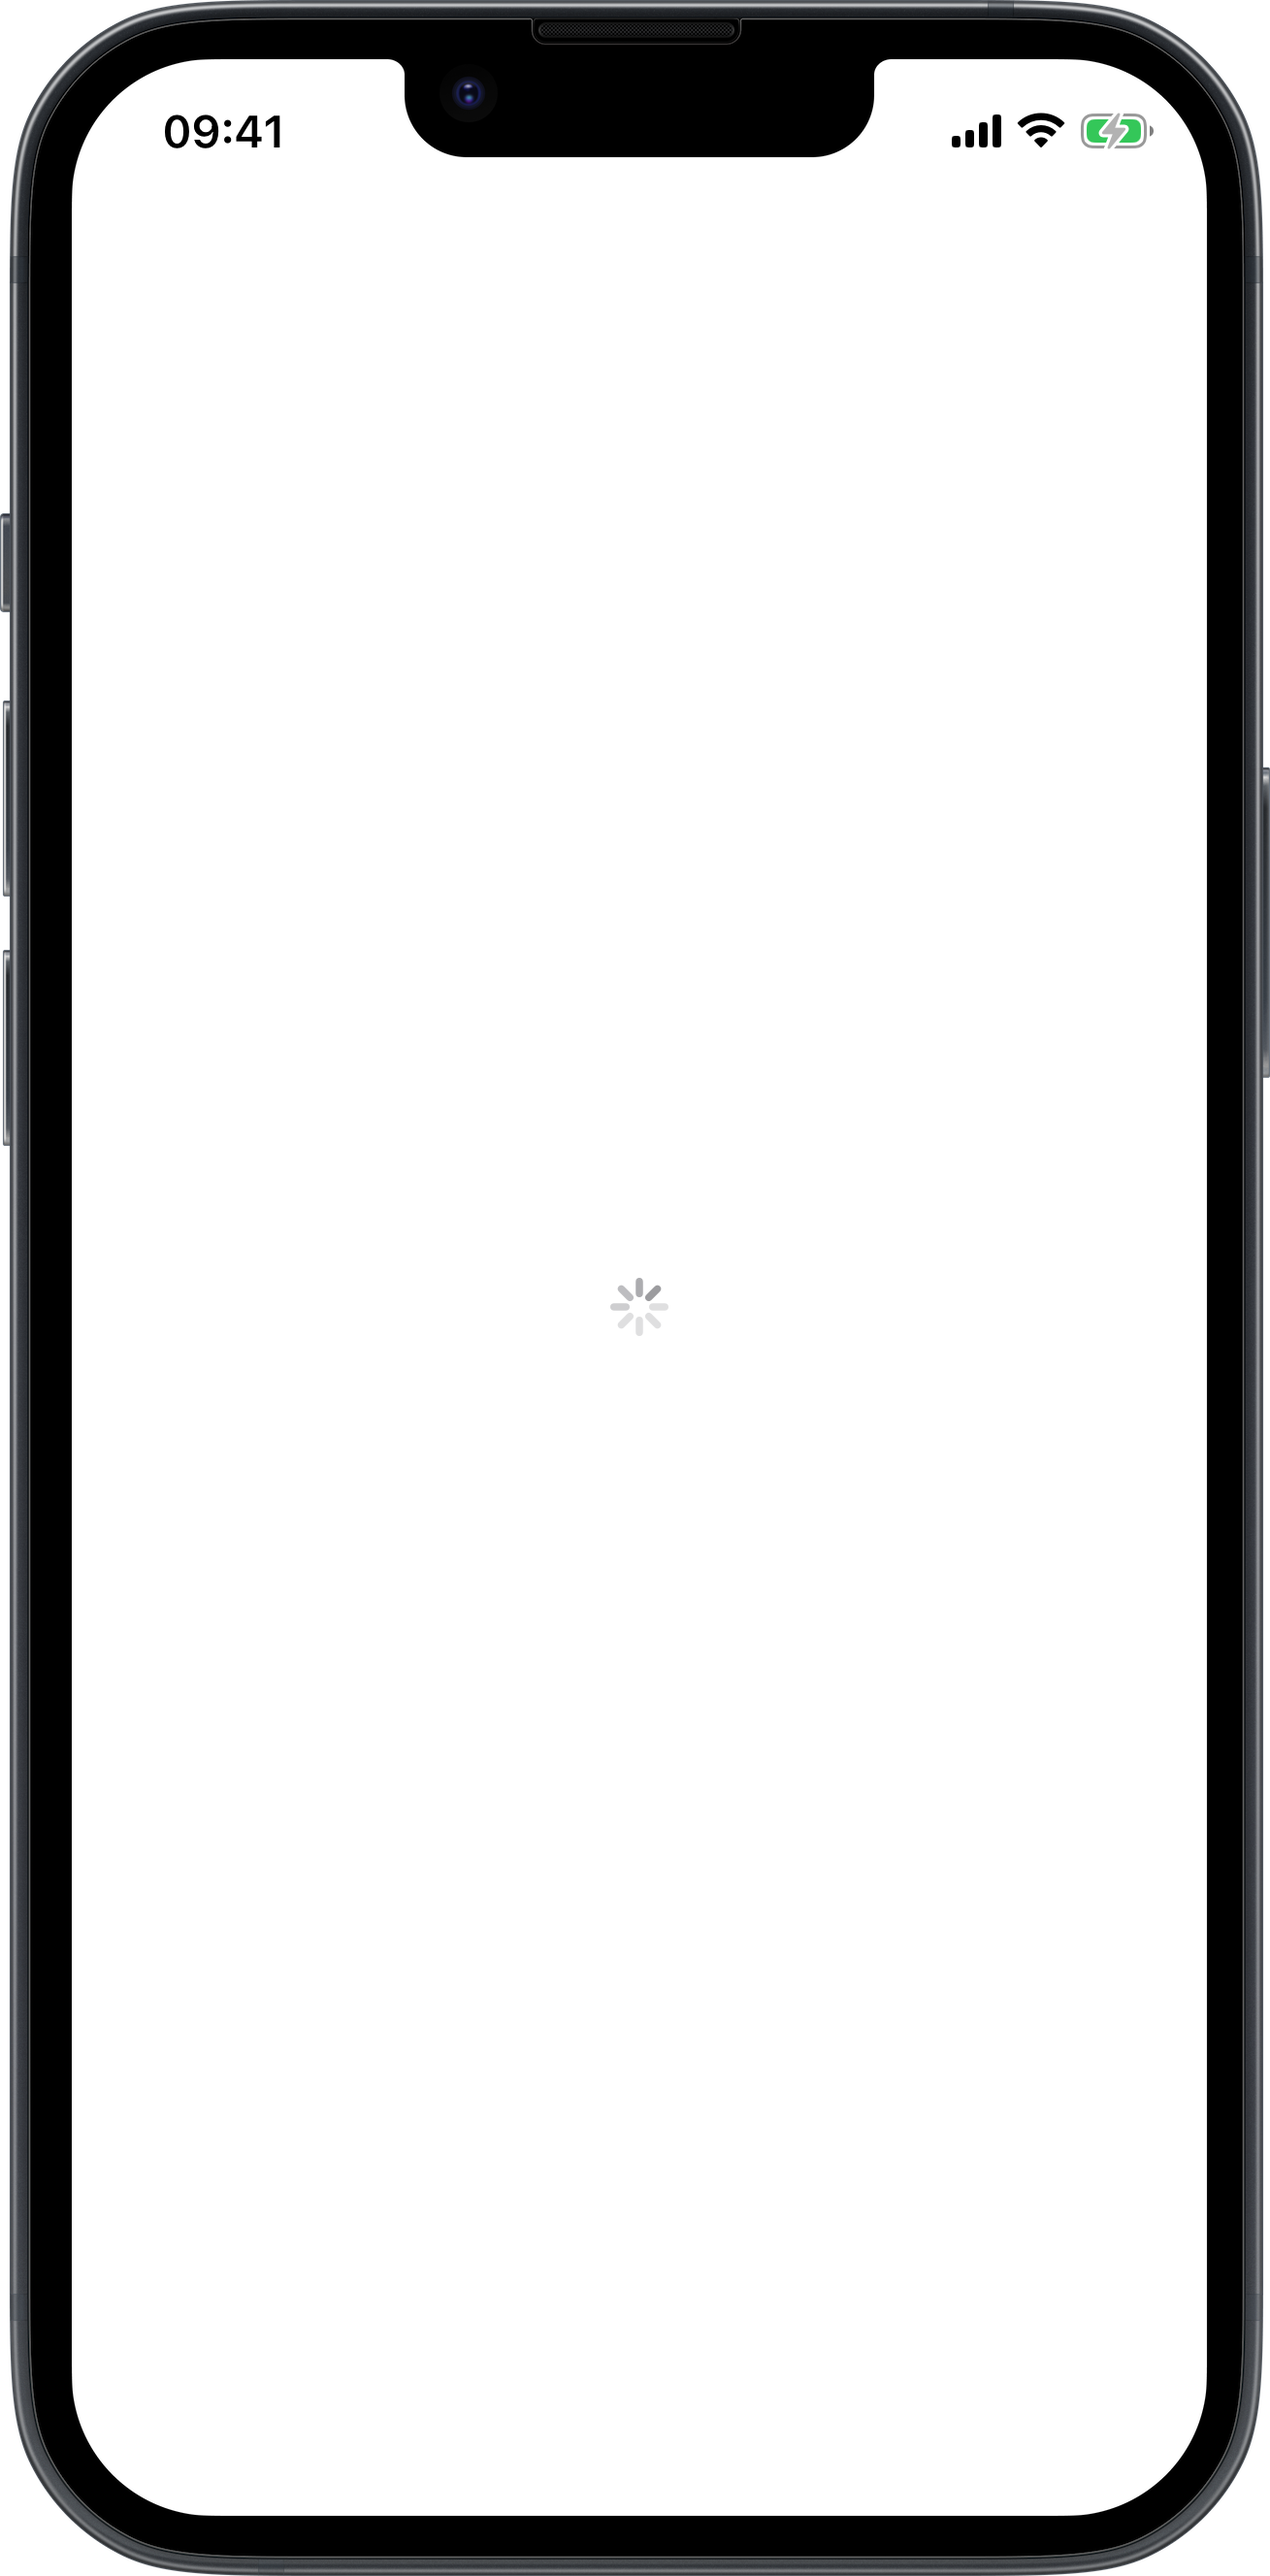
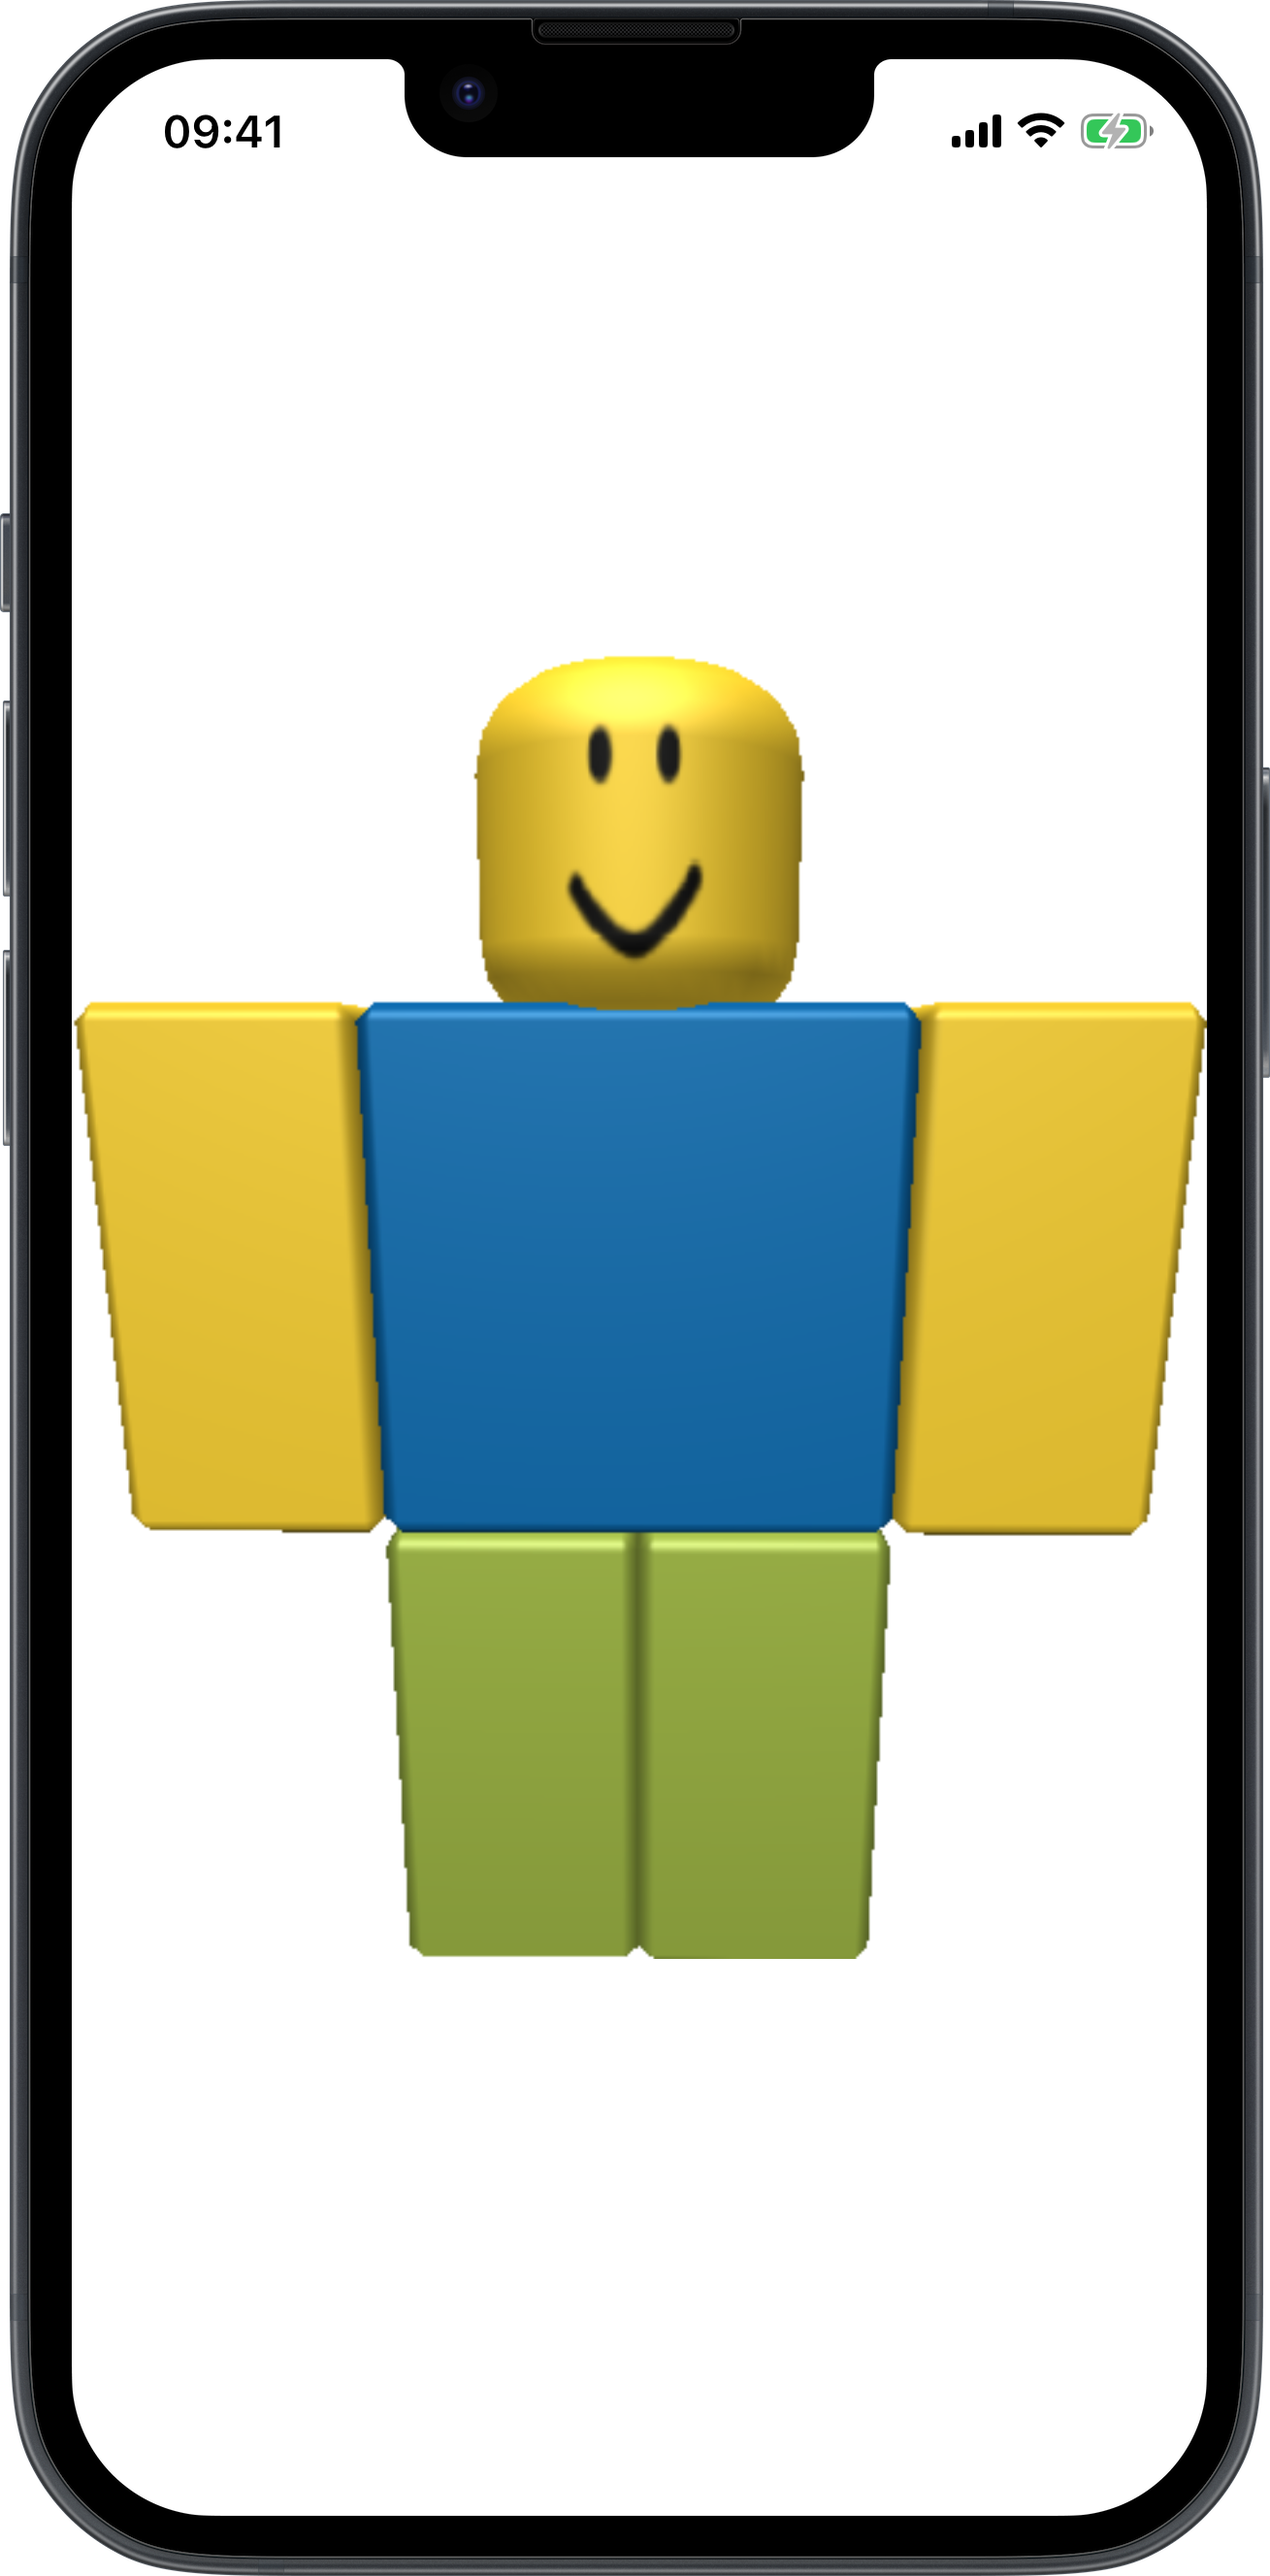
fixed asyncimage

Changed region(s): [[0.0611, 0.2471, 0.9473, 0.7721]]

diff --git a/Views/Other/asyncimage.md b/Views/Other/asyncimage.md
@@ -10,11 +10,46 @@ A view that asynchronously loads and displays an image.
 - `renderingMode`: The rendering mode of the image. Can be `original` or `template`.
 - The text content of the tag is the URL of the image.
 
-**Example**
+***Fit Image Example:***
+
+The example below shows how to load an image from a URL. The `resizable` attribute allows the image to be resized, and `scaledToFit` scales the image to fit its container while maintaining its aspect ratio.
 
 ```xml
 <body>
-    <asyncimage resizable="">https://picsum.photos/200</asyncimage>
+    <asyncimage resizable="" scaledToFit="">url:https://magic-ui.com/Demo/Resources/Images/noobie.png</asyncimage>
 </body>
 ```
 <img src="/Screenshots/Views/Other/asyncimage_1.png" width="250" alt="Screenshot">
+
+***Fill Image Example:***
+
+This example uses `scaledToFill`, which scales the image to fill its container, potentially cropping the image if its aspect ratio doesn't match.
+
+```xml
+<body>
+    <asyncimage resizable="" scaledToFill="">url:https://magic-ui.com/Demo/Resources/Images/noobie.png</asyncimage>
+</body>
+```
+<img src="/Screenshots/Views/Other/asyncimage_2.png" width="250" alt="Screenshot">
+
+***Template Image Example:***
+
+This example demonstrates the use of `renderingMode="template"`. This mode allows the image to be colored by the `foregroundColor`. The example also sets a fixed `height` for the image.
+
+```xml
+<body>
+    <asyncimage resizable="" scaledToFit="" height="200" foregroundColor="red" renderingMode="template">url:https://magic-ui.com/Demo/Resources/Images/noobie.png</asyncimage>
+</body>
+```
+<img src="/Screenshots/Views/Other/asyncimage_3.png" width="250" alt="Screenshot">
+
+***Original Size Example:***
+
+This example shows the image displayed at its original size, as `scaledToFit` or `scaledToFill` are not used.
+
+```xml
+<body>
+    <asyncimage resizable="">url:https://magic-ui.com/Demo/Resources/Images/noobie.png</asyncimage>
+</body>
+```
+<img src="/Screenshots/Views/Other/asyncimage_4.png" width="250" alt="Screenshot">
